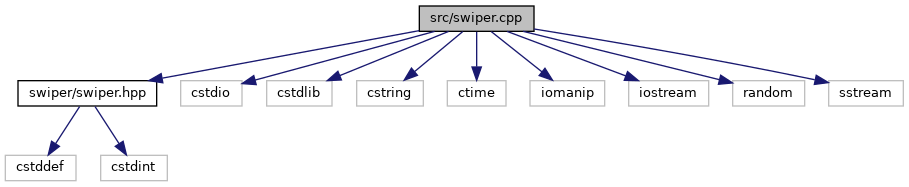
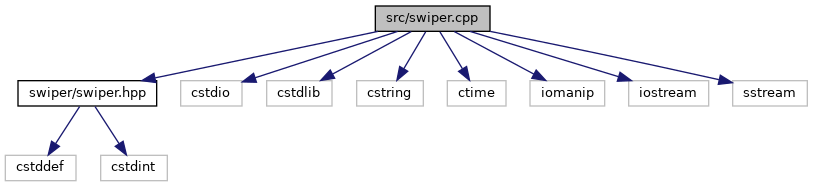
Travis build: 41
Commit: 4851dc9c918f05b0deb81a27e90f182fec515f73

diff --git a/swiper_8hpp_source.html b/swiper_8hpp_source.html
@@ -81,8 +81,8 @@ $(function() {
 <div class="line"><a name="l00040"></a><span class="lineno">   40</span>&#160;}</div>
 </div><!-- fragment --></div><!-- contents -->
 <div class="ttc" id="anamespaceswiper_html"><div class="ttname"><a href="namespaceswiper.html">swiper</a></div><div class="ttdoc">swiper manages legacy Cisco passwords.</div><div class="ttdef"><b>Definition:</b> swiper.hpp:16</div></div>
-<div class="ttc" id="anamespaceswiper_html_aa4c818e46d488bdaed06d6a3f4a78bae"><div class="ttname"><a href="namespaceswiper.html#aa4c818e46d488bdaed06d6a3f4a78bae">swiper::Decrypt</a></div><div class="ttdeci">void Decrypt(char *password, const char *hash)</div><div class="ttdoc">Decrypt reverses Cisco IOSv7 hashes.</div><div class="ttdef"><b>Definition:</b> swiper.cpp:141</div></div>
-<div class="ttc" id="anamespaceswiper_html_a8a7db4f8e5d225dab723dc980cf20e83"><div class="ttname"><a href="namespaceswiper.html#a8a7db4f8e5d225dab723dc980cf20e83">swiper::Encrypt</a></div><div class="ttdeci">void Encrypt(char *hash, size_t seed, const char *password)</div><div class="ttdoc">Encrypt produces Cisco IOSv7 hashes.</div><div class="ttdef"><b>Definition:</b> swiper.cpp:118</div></div>
+<div class="ttc" id="anamespaceswiper_html_aa4c818e46d488bdaed06d6a3f4a78bae"><div class="ttname"><a href="namespaceswiper.html#aa4c818e46d488bdaed06d6a3f4a78bae">swiper::Decrypt</a></div><div class="ttdeci">void Decrypt(char *password, const char *hash)</div><div class="ttdoc">Decrypt reverses Cisco IOSv7 hashes.</div><div class="ttdef"><b>Definition:</b> swiper.cpp:140</div></div>
+<div class="ttc" id="anamespaceswiper_html_a8a7db4f8e5d225dab723dc980cf20e83"><div class="ttname"><a href="namespaceswiper.html#a8a7db4f8e5d225dab723dc980cf20e83">swiper::Encrypt</a></div><div class="ttdeci">void Encrypt(char *hash, size_t seed, const char *password)</div><div class="ttdoc">Encrypt produces Cisco IOSv7 hashes.</div><div class="ttdef"><b>Definition:</b> swiper.cpp:117</div></div>
 <!-- start footer part -->
 <hr class="footer"/><address class="footer"><small>
 Generated by &#160;<a href="http://www.doxygen.org/index.html">

diff --git a/swiper_8cpp.html b/swiper_8cpp.html
@@ -79,14 +79,13 @@ $(function() {
 <code>#include &lt;ctime&gt;</code><br />
 <code>#include &lt;iomanip&gt;</code><br />
 <code>#include &lt;iostream&gt;</code><br />
-<code>#include &lt;random&gt;</code><br />
 <code>#include &lt;sstream&gt;</code><br />
 </div><div class="textblock"><div class="dynheader">
 Include dependency graph for swiper.cpp:</div>
 <div class="dyncontent">
 <div class="center"><img src="swiper_8cpp__incl.png" border="0" usemap="#src_2swiper_8cpp" alt=""/></div>
 <map name="src_2swiper_8cpp" id="src_2swiper_8cpp">
-<area shape="rect" title=" " alt="" coords="419,5,534,32"/>
+<area shape="rect" title=" " alt="" coords="375,5,490,32"/>
 <area shape="rect" href="swiper_8hpp.html" title=" " alt="" coords="18,80,157,107"/>
 <area shape="rect" title=" " alt="" coords="181,80,242,107"/>
 <area shape="rect" title=" " alt="" coords="267,80,332,107"/>
@@ -94,8 +93,7 @@ Include dependency graph for swiper.cpp:</div>
 <area shape="rect" title=" " alt="" coords="447,80,506,107"/>
 <area shape="rect" title=" " alt="" coords="530,80,605,107"/>
 <area shape="rect" title=" " alt="" coords="629,80,709,107"/>
-<area shape="rect" title=" " alt="" coords="733,80,805,107"/>
-<area shape="rect" title=" " alt="" coords="829,80,903,107"/>
+<area shape="rect" title=" " alt="" coords="733,80,807,107"/>
 <area shape="rect" title=" " alt="" coords="5,155,76,181"/>
 <area shape="rect" title=" " alt="" coords="101,155,167,181"/>
 </map>

diff --git a/README.md b/README.md
@@ -1,1 +1,1 @@
-Wed 03 Mar 2021 02:46:01 AM UTC
+Wed 03 Mar 2021 02:47:15 AM UTC
